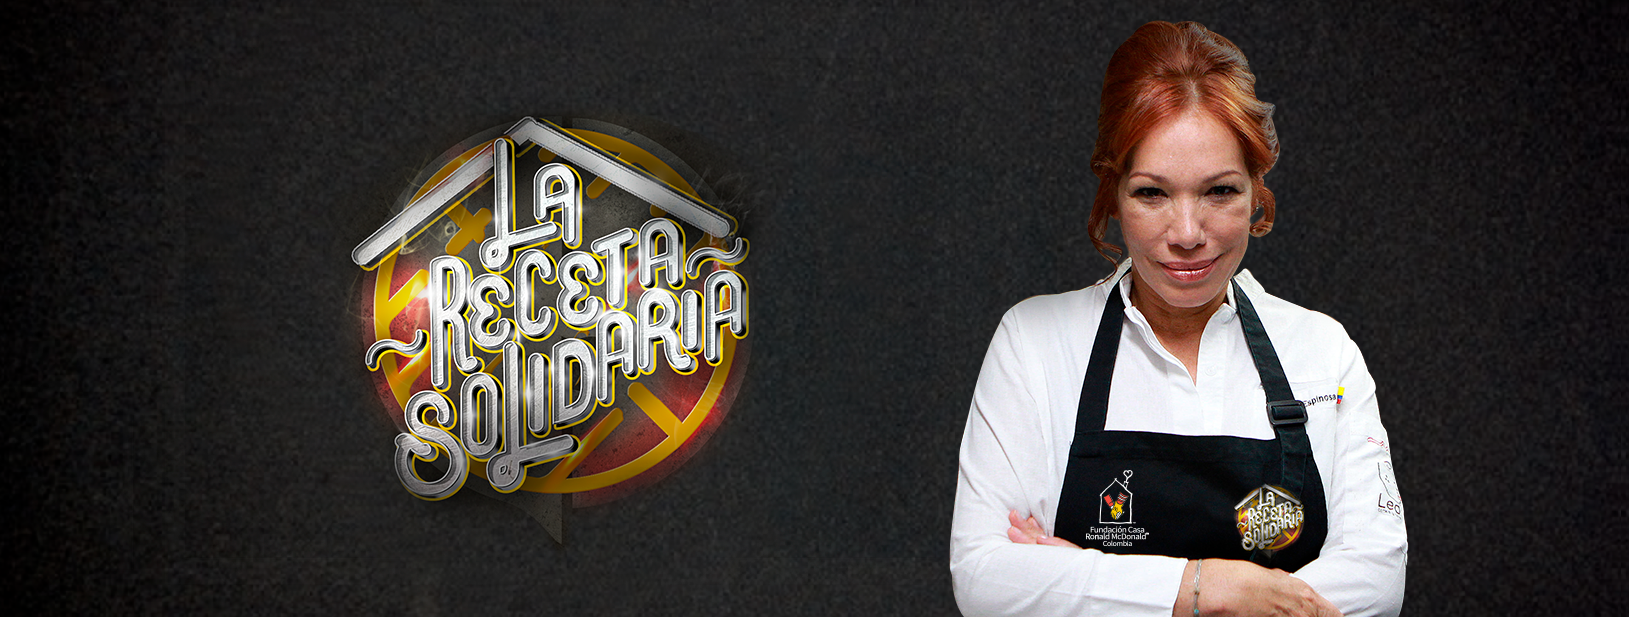
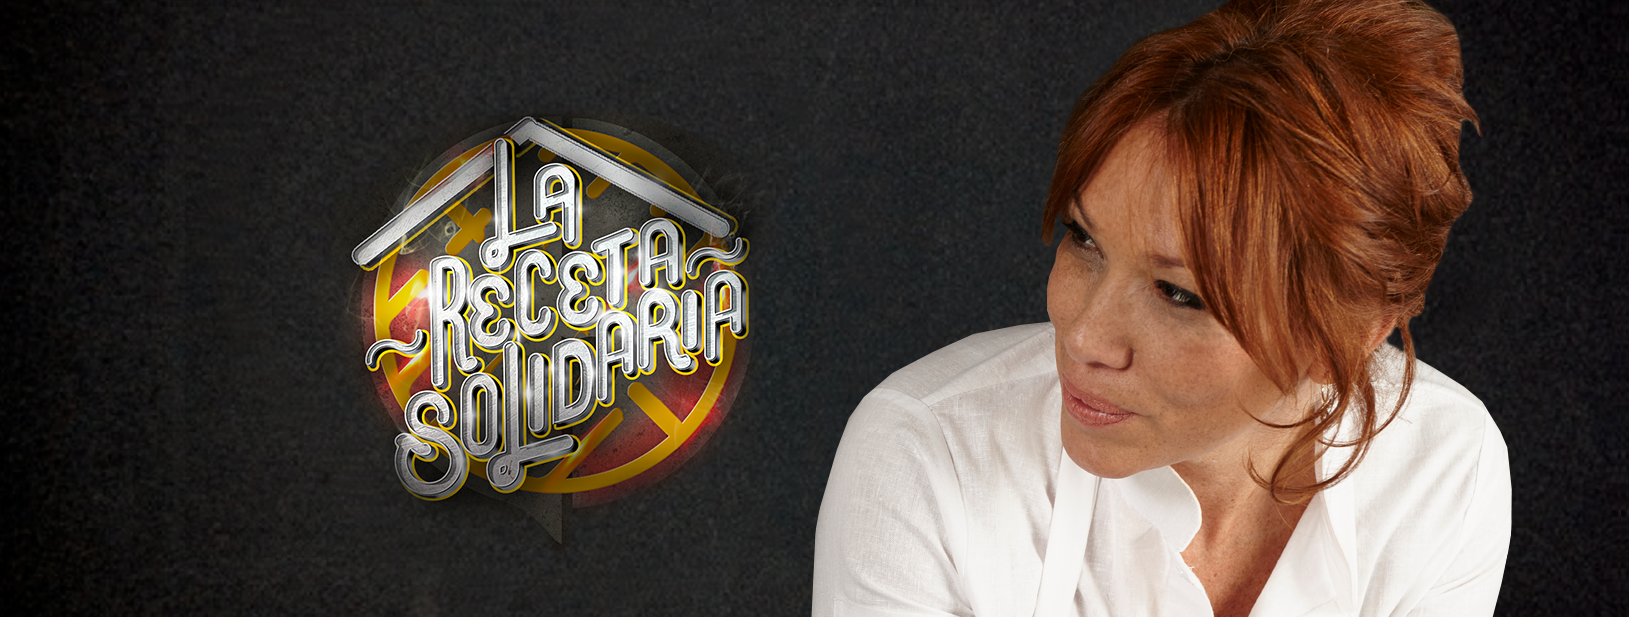
ajustes de diseño oct 28

Changed region(s): [[0.4911, 0.0, 0.9515, 1.0]]

diff --git a/public/css/main.css b/public/css/main.css
@@ -94,7 +94,7 @@
 
 
 
-    --main-width-eventos-container:400px;
+    --main-width-eventos-container:300px;
 
     --main-height-eventos-image:200px;
 
@@ -380,6 +380,19 @@ ul{
 
 }
 
+.heroimage-mask p{
+
+    font-size: var(--main-font-size-paragraphs);
+
+    font-family: var(--font-family-light);
+
+    color: var(--main-black-color);
+
+    text-align: center;
+
+    margin: 1em 20px 0 20px;
+
+}
 
 
 
@@ -774,7 +787,7 @@ ul{
 
     display: block;
 
-    width: 70%;
+    width: 90%;
 
     margin: 4rem auto auto auto;
 
@@ -994,7 +1007,7 @@ ul{
 
     overflow: hidden;
 
-    margin: 10rem 0 5rem 0;
+    margin: 0;
 
 }
 
@@ -1010,6 +1023,15 @@ ul{
 
 }
 
+.livestreamimg-mask-video{
+  
+  width: 50%;
+
+  overflow: hidden;
+
+  background-color: var(--main-black-color);
+}
+
 
 
 .livestreamimg-mask img{
@@ -1023,6 +1045,20 @@ ul{
     height: 100%;
 
     opacity: .6;
+
+}
+
+.livestreamimg-mask-video iframe{
+
+    object-position: center;
+
+    object-fit: cover;
+
+    width: 100%;
+
+    height: 100%;
+
+    opacity: .8;
 
 }
 
@@ -1776,7 +1812,7 @@ ul{
 
   flex-wrap: wrap;
 
-  justify-content: space-between;  
+  justify-content: space-between;
 
   align-items: center;
 
@@ -1797,3 +1833,63 @@ ul{
   width: 100%;
   object-position: center;
 }
+
+/* Ajustes OCT-28 */
+
+.texto-desc-ama{
+
+
+    font-family: var(--font-family-light);
+    font-size: var(--main-font-size-paragraphs);
+    color: var(--main-yellow-color);
+    font-weight: bold;
+    text-align: center;
+    margin: 3em 20px 0 20px;
+
+}
+
+
+.patrocinadores-container{
+  display: flex;
+
+  flex-direction: row;
+
+  flex-wrap: wrap;
+
+  justify-content: space-between;
+
+  align-items: center;
+
+  width: 65%;
+
+  margin: 10px auto auto auto;
+}
+
+.patrocinadores-imagen{
+  width: 200px;
+  height: 220px;
+  overflow: hidden;
+}
+
+.patrocinadores-imagen img{
+  display:block;
+  object-fit: cover;
+  width: 100%;
+  object-position: center;
+  margin: 5px 10px auto 10px;
+}
+
+.patrocinadores-tittle{
+
+    text-align: center;
+
+    font-size: var(--main-font-size-titles);
+
+    color: var(--main-red-color);
+
+    font-family: var(--font-family-bold);
+    margin-bottom: 25px;
+
+}
+
+/*END Ajustes OCT-28 */

diff --git a/public/css/responsive.css b/public/css/responsive.css
@@ -282,7 +282,11 @@
         width: 100%;
 
     }
+    .livestreamimg-mask-video{
 
+      width: 100%;
+      height: 100%;
+    }
 
 
     .feedback-block{
@@ -314,7 +318,7 @@
         justify-content: start;
 
         flex-direction: column;
-        
+
         flex-wrap: nowrap;
 
     }

diff --git a/resources/views/welcome.blade.php b/resources/views/welcome.blade.php
@@ -2,8 +2,14 @@
 
 @section('content')
 <div class="heroimage-mask">
-        <img src="img/templates/fcr_banner_home.png" alt="Hero home image" id="hero-image">
+        <img src="img/templates/banner.png" alt="Hero home image" id="hero-image">
+        <p>Este show
+  es un evento de recaudación de fondos a favor de la Fundación Casa Ronald McDonald, en busca
+  de no detenernos y seguir trabajando por las familias que tienen a sus hijos enfermos y deben
+  permanecer unidas.</p>
+
     </div>
+
 
 
     <div class="timer-container">
@@ -36,16 +42,19 @@
         <h2>¡Adquiere ya tu ticket y haz parte de la receta solidaria!</h2>
         </div>
 </div>
+  <h2 class="texto-desc-ama">Creamos un evento ÚNICO en el que te cautivamos a
+    través de los sentidos como el oído, el gusto y el tacto.</h2>
+
         <div class="contain-titleWithBackground-container">
 
 
         <div class="block-ticket">
-                <img src="img/tickets/ticket-11.png" alt="">
+                <img src="img/tickets/ticket-sencillo.png" alt="">
                 <h2 id="price">80.000</h2>
-                <h2>INCLUYE</h2>
+                <h2>Ingresa al evento y sorpréndete.</h2>
                 <ul>
-                    <li>1 Ingreso</li>
-                    <li>Sin box</li>
+
+                    <li>Ticket no incluye Box Premium</li>
                 </ul>
             </div>
 
@@ -56,7 +65,7 @@
                 <ul>
                     <li>1 Ingreso al evento</li>
                     <li>+ Box Premium</li>
-                    <li class="small-text">(Caja con ingredientes para preparar una deliciosa receta guiada por Leo Espinosa)</li>
+                    <li class="small-text">(Caja con ingredientes para preparar una deliciosa receta guiada por Leo Espinosa y muchas sorpresas)</li>
                 </ul>
             </div>
 
@@ -67,7 +76,7 @@
                 <ul>
                     <li>2 Ingresos</li>
                     <li>+ 2 Box Premium</li>
-                    <li class="small-text">(Caja con ingredientes para preparar una deliciosa receta guiada por Leo Espinosa)</li>
+                    <li class="small-text">(Caja con ingredientes para preparar una deliciosa receta guiada por Leo Espinosa y muchas sorpresas)</li>
                 </ul>
             </div>
 
@@ -78,7 +87,7 @@
                 <ul>
                     <li>3 Ingresos</li>
                     <li>+ 3 Box Premium</li>
-                    <li class="small-text">(Caja con ingredientes para preparar una deliciosa receta guiada por Leo Espinosa)</li>
+                    <li class="small-text">(Caja con ingredientes para preparar una deliciosa receta guiada por Leo Espinosa y muchas sorpresas)</li>
                 </ul>
             </div>
 
@@ -113,6 +122,20 @@
                            <p>EN VIVO</p>
                            <span></span>
                        </div>
+                       <img src="img/eventos/andrea_evento.png" alt="Gerente MacDonalds">
+                   </div>
+
+                   <div class="eventos-info-container">
+                       <h2>La conducción del evento estará a cargo de la bellísima Andrea Jaramillo, que nos guiará por una noche llena de sorpresas.</h2>
+                   </div>
+               </div>
+
+               <div class="block-eventos">
+                   <div class="eventosimg-mask">
+                       <div class="eventosimg-filter-container">
+                           <p>EN VIVO</p>
+                           <span></span>
+                       </div>
                        <img src="img/eventos/1.jpg" alt="Gerente MacDonalds">
                    </div>
 
@@ -127,7 +150,7 @@
                            <p>EN SEGUIDA</p>
                            <span></span>
                        </div>
-                       <img src="img/eventos/2.jpg" alt="Gerente MacDonalds">
+                       <img src="img/eventos/nuestro_evento_le.png" alt="Gerente MacDonalds">
                    </div>
                    <div class="eventos-info-container">
                        <h2>¡La gran chef Colombiana te enseñará a preparar una deliciosa receta en vivo!</h2>
@@ -140,16 +163,53 @@
                            <p>DESPUÉS</p>
                            <span></span>
                        </div>
-                       <img src="img/eventos/3.jpg" alt="Gerente MacDonalds">
+                       <img src="img/eventos/nuestro_evento_mp.png" alt="Gerente MacDonalds">
                    </div>
                    <div class="eventos-info-container">
                        <h2>El espectacular show de la agrupación Colombiana con reconocimiento a nivel mundial.</h2>
                    </div>
                </div>
+
+
+              <div class="block-eventos">
+                  <div class="eventosimg-mask">
+                      <div class="eventosimg-filter-container">
+                          <p>EN VIVO</p>
+                          <span></span>
+                      </div>
+                      <img src="img/eventos/familias_FCR.png" alt="Gerente MacDonalds">
+                  </div>
+
+                  <div class="eventos-info-container">
+                      <h2>Los invitados de honor: Las Familias que acogemos día a día en los siete programas de la Fundación en Bogotá, Medellín y Cartagena. ¡Ellos son y serán siempre nuestro motor!</h2>
+                  </div>
+              </div>
+
            </div>
    </div>
 
    <!-- CONTENIDO DE EVENTOS !END!------------------------------------------------------------------------------ -->
+
+
+   <!-- CONTENIDO DE PATROCINADORES ------------------------------------------------------------------------------ -->
+
+   <h2 class="patrocinadores-tittle">Nuestros patrocinadores:</h2>
+
+   <div class="patrocinadores-container">
+       <div class="fotos-fundacion-container">
+         <div class="patrocinadores-imagen">
+           <img src="img/icons/Logo-cocacola.png" alt="fundacion">
+         </div>
+         <div class="patrocinadores-imagen">
+           <img src="img/icons/Logo-fdb.png" alt="fundacion">
+         </div>
+       </div>
+   </div>
+   <br>
+   <br>
+   <br>
+
+   <!-- CONTENIDO DE PATROCINADORES !END!------------------------------------------------------------------------------ -->
 
         <div class="livestream-container">
         <div class="livestreamimg-mask">
@@ -161,26 +221,44 @@
             <a href="#" id="join-livestream">Acceder</a>
         </div>
     </div>
+    <div class="livestream-container">
+    <div class="livestream-info-container">
+        <h2>Monsieur Periné</h2>
+        <p>Es una de las bandas alternativas colombianas que más resuenan en el mundo. Es un grupo
+musical colombiano que combina sonidos de géneros como jazz, pop, swing, world Music y con
+ritmos autóctonos.</p>
+        <a href="#" id="join-livestream">Acceder</a>
+    </div>
+    <div class="livestreamimg-mask">
+        <img src="img/livestream/monsieuir.png" alt="livestream image">
+    </div>
+</div>
+<div class="livestream-container">
+<div class="livestreamimg-mask-video">
+    <iframe  src="//www.youtube.com/embed/wd_ZrWEbopg" frameborder="0" allowfullscreen></iframe>
+</div>
+<div class="livestream-info-container">
+    <h2>Fundación Casa Ronald Mcdonald</h2>
+    <p>La Fundación Casa Ronald McDonald es un equipo especializado que los 365 días del año brinda
+todo lo necesario para que las familias que atendemos, transiten dignamente la enfermedad de
+sus hijos. Ofrecemos espacios totalmente gratuitos donde puedan descansar, cocinar, lavar su
+ropa, dormir o simplemente pasar el tiempo mientras esperan a sus hijos que están en
+tratamiento médico.</p>
+    <a href="#" id="join-livestream">Acceder</a>
+</div>
+</div>
 
-
+<br>
+<br>
+<br>
     <div class="welcome-container">
+        <h2>¡Bienvenido a La Casa Ronald!</h2>
 
-        <div class="info-welcome-container">
-
-            <h2>¡Bienvenido a La Casa Ronald!</h2>
-
-            <p>Miles de familias con niños enfermos acuden a hospitales para recibir tratamiento médico especializado lejos de su hogar.
-            La incertidumbre y las dificultades propias de esta situación, junto a los costos de transporte, alimentación y alojamiento pueden convertirse en causa de estrés emocional y financiero para las familias.
-            La Fundación Casa Ronald McDonald conoce esta problemática y se ha especializado en crear programas de atención para las familias cuyo objetivo es mejorar la calidad de vida, el bienestar psicológico y la experiencia general de la hospitalización para el paciente y su familia.
-            </p>
-
-        </div>
-
-
-        
-        <img src="img/icons/logo.png" alt="fundacion" id="welcome-img">
-
-        
+        <p>Miles de familias con niños enfermos acuden a hospitales para recibir tratamiento médico especializado lejos de su hogar.
+           La incertidumbre y las dificultades propias de esta situación, junto a los costos de transporte, alimentación y alojamiento pueden convertirse en causa de estrés emocional y financiero para las familias.
+           La Fundación Casa Ronald McDonald conoce esta problemática y se ha especializado en crear programas de atención para las familias cuyo objetivo es mejorar la calidad de vida, el bienestar psicológico y la experiencia general de la hospitalización para el paciente y su familia.
+        </p>
+        <img src="img/icons/logo.png" alt="fundacion">
 
         <div class="fotos-fundacion-container">
           <div class="mascara-imagen">
